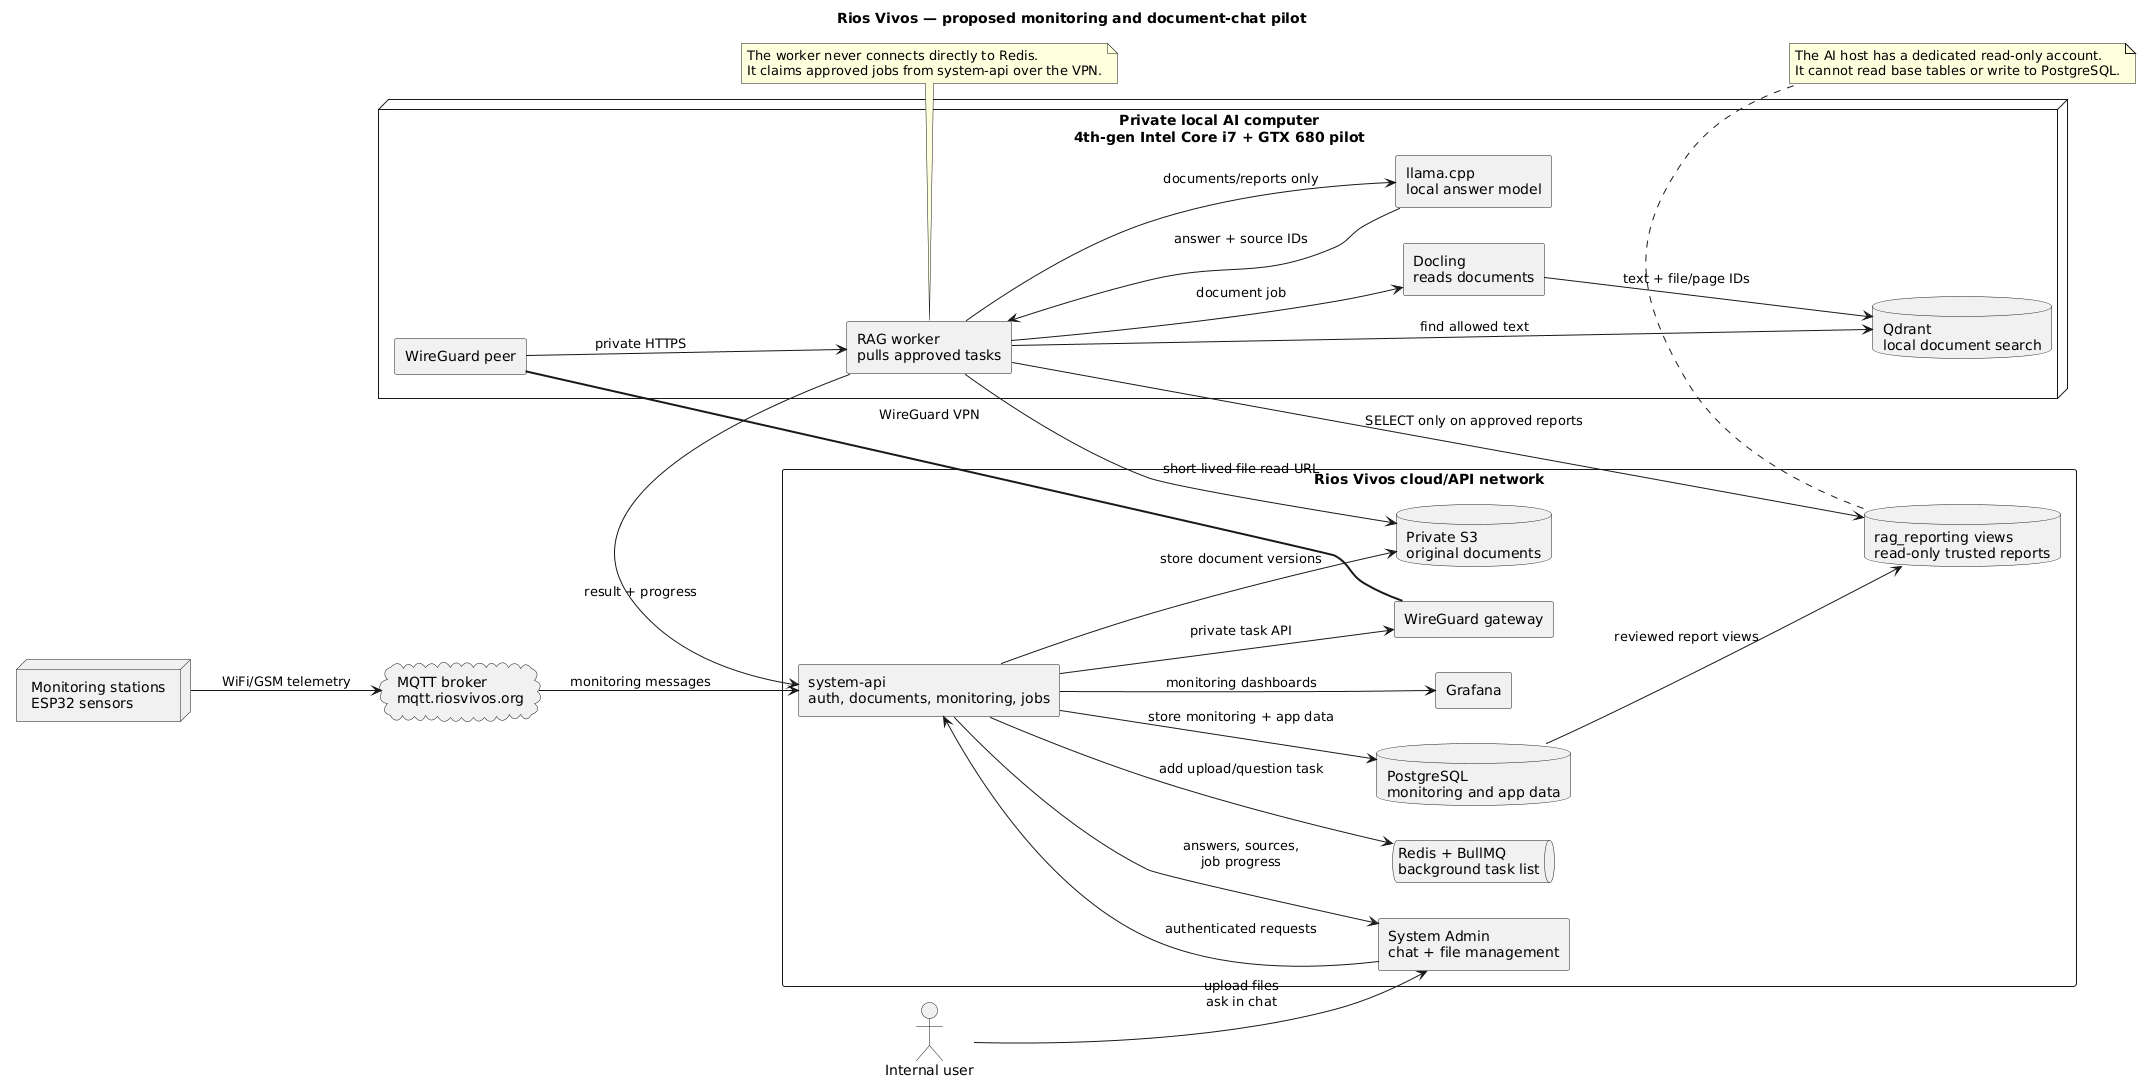
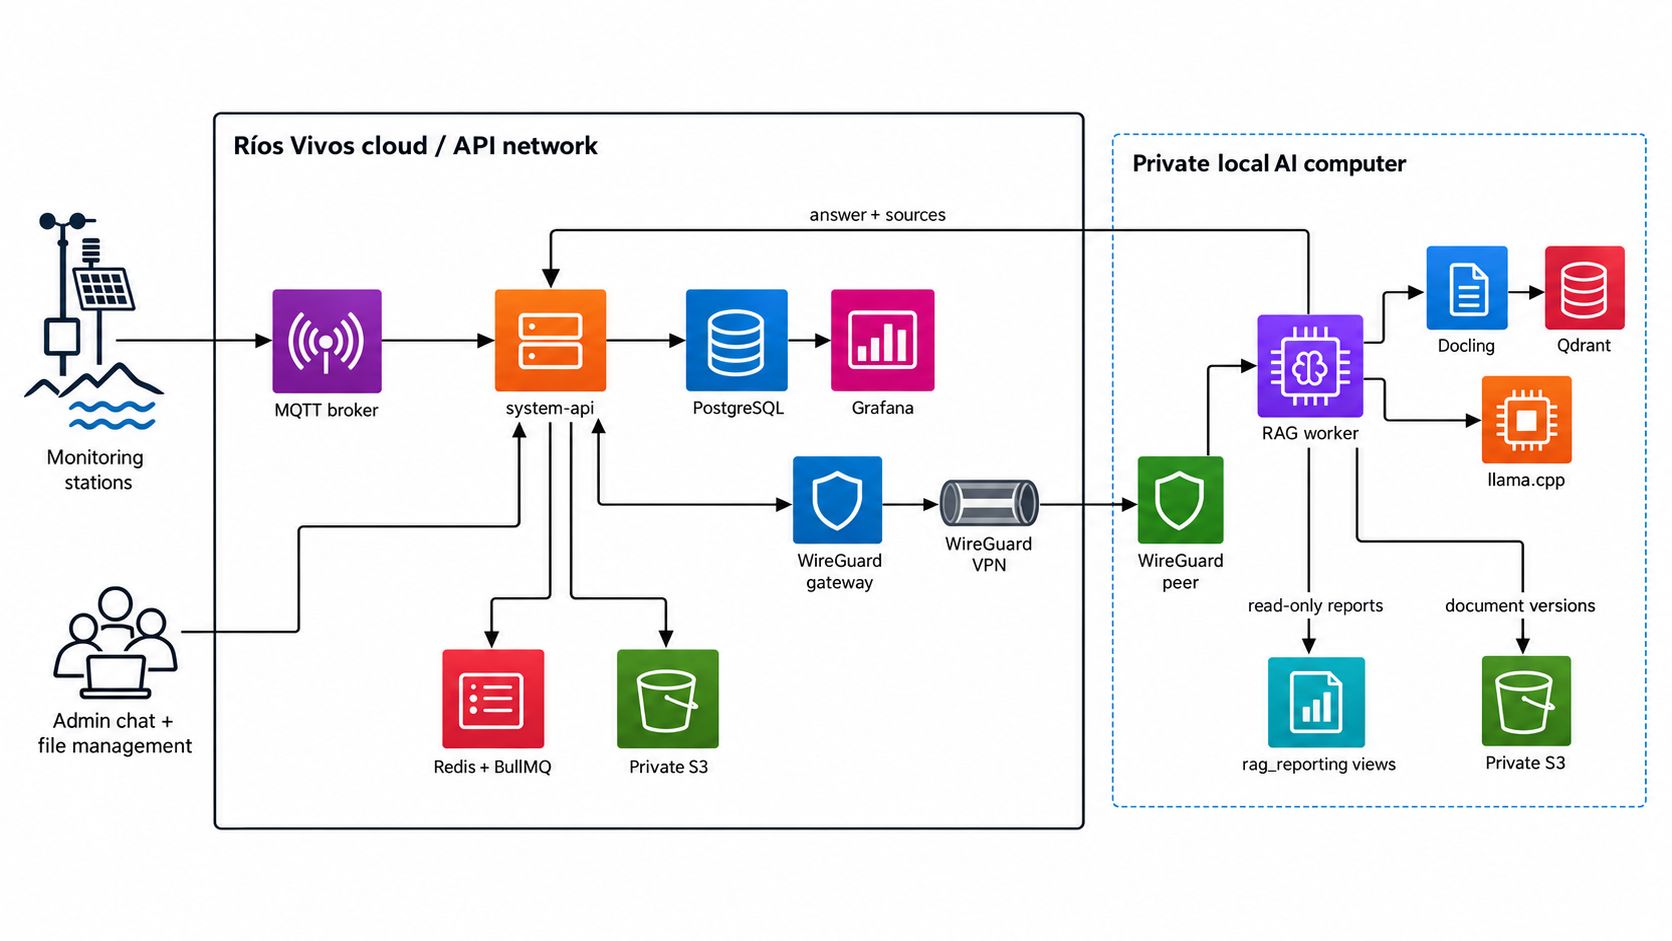
docs: replace RAG architecture UML graphic

diff --git a/SRS.md b/SRS.md
@@ -181,8 +181,6 @@ MQTT broker, `system-api`, PostgreSQL, or Grafana.
 
 ![Proposed monitoring and document-chat architecture](img/system-architecture-rag-pilot.png)
 
-[Editable PlantUML source](plantuml/system-architecture-rag-pilot.plantuml)
-
 #### Diagrama de infraestructura
 ![Infrastructure Diagram](img/infra-diagram.png)
 
